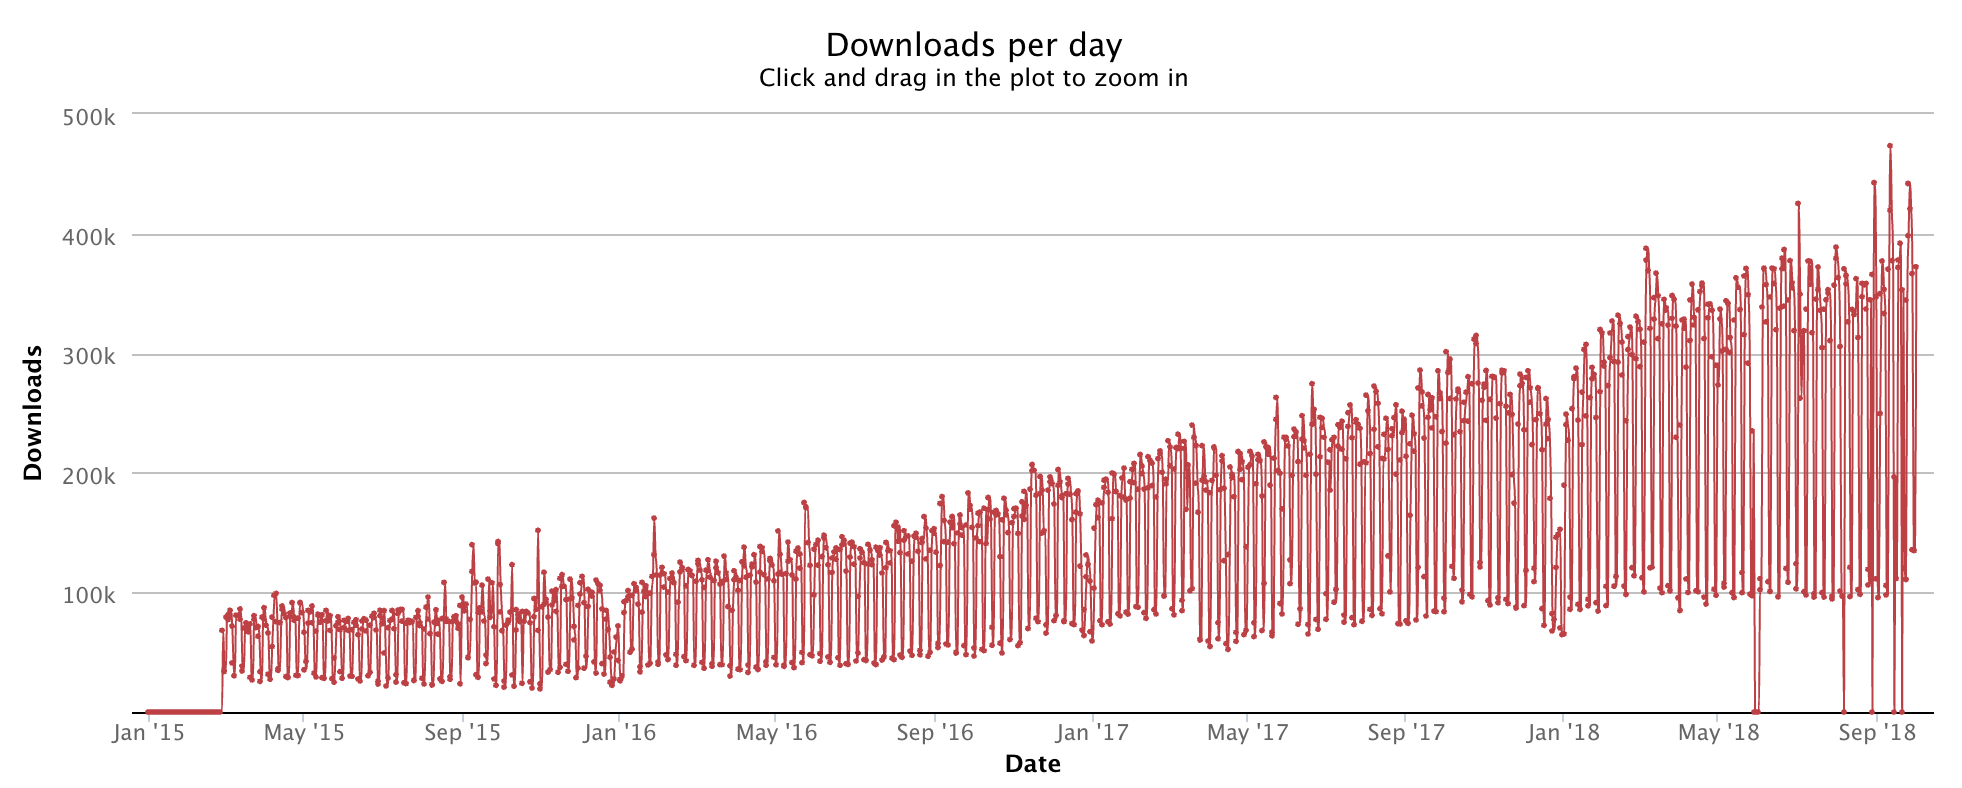
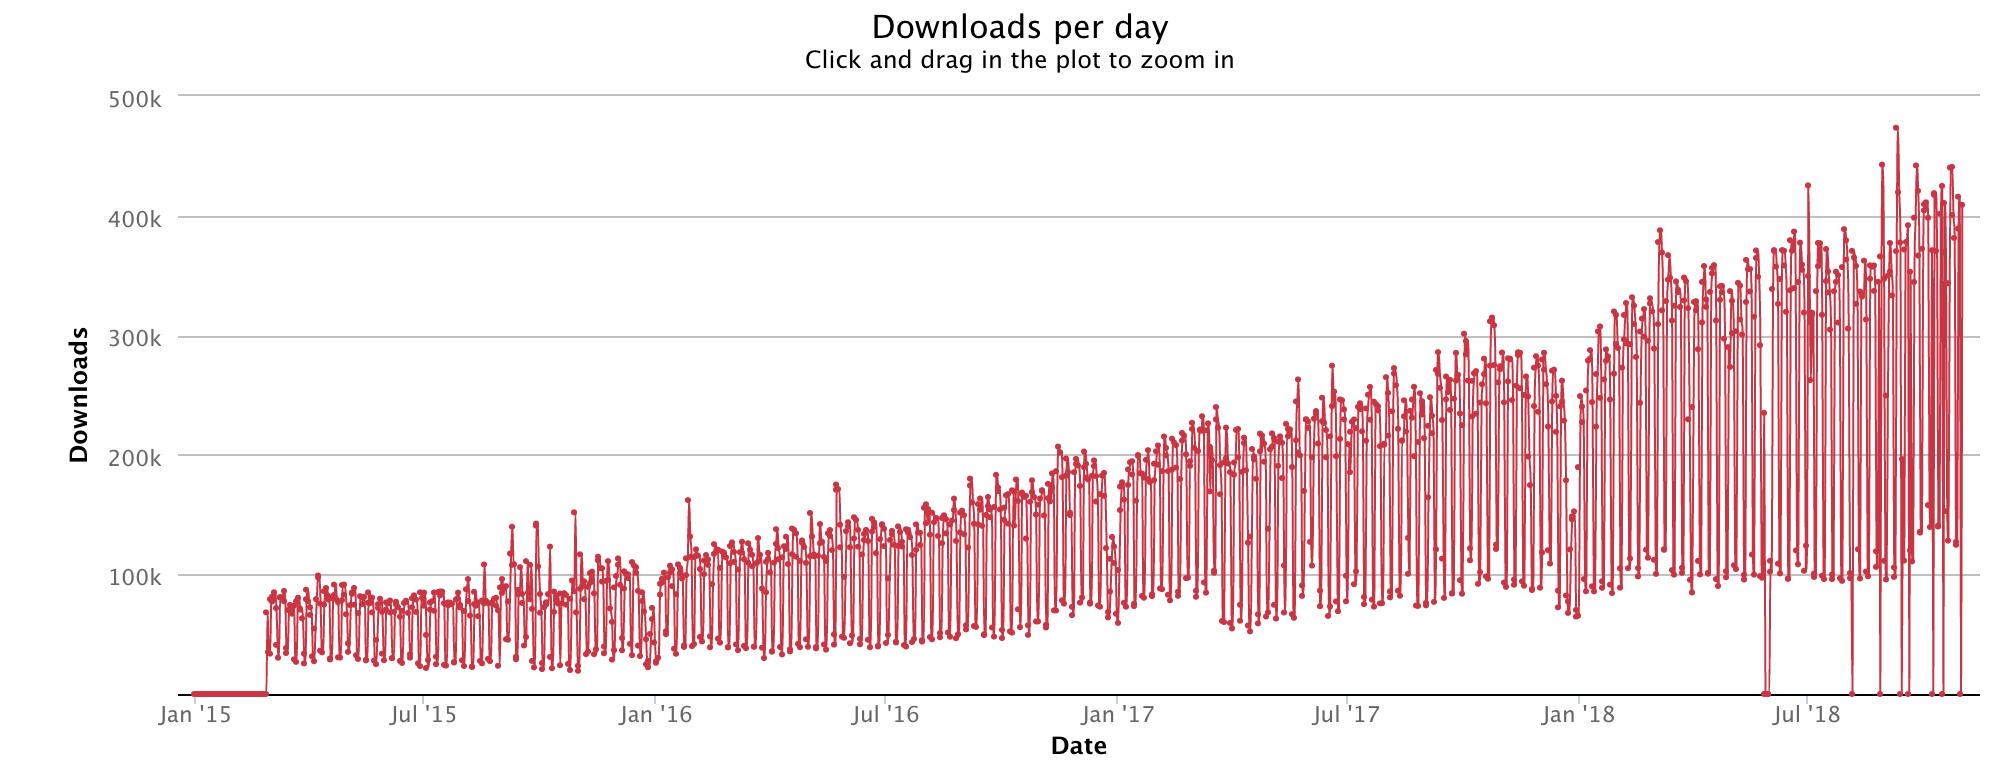
update download stats for november

Changed region(s): [[0.0, 0.1851, 0.9949, 0.9871], [0.0311, 0.0, 0.9638, 0.1542]]

diff --git a/presentation/src/presentation.js b/presentation/src/presentation.js
@@ -183,33 +183,33 @@ const Presentation = () => (
     <Slide>
       <Notes>Charts are from January 1st 2015 to October 1st 2018</Notes>
       <Heading>Mocha</Heading>
-      <Link href="https://npm-stat.com/charts.html?package=mocha&from=2015-01-01&to=2018-10-01">
+      <Link href="https://npm-stat.com/charts.html?package=mocha&from=2015-01-01&to=2018-11-01">
         <Image src={mochaDownloadStatsImage} />
       </Link>
     </Slide>
     {/*
     <Slide>
       <Heading>Jasmine</Heading>
-      <Link href="https://npm-stat.com/charts.html?package=jasmine-core&from=2015-01-01&to=2018-10-01">
+      <Link href="https://npm-stat.com/charts.html?package=jasmine-core&from=2015-01-01&to=2018-11-01">
         <Image src={jasmineDownloadStatsImage} />
       </Link>
     </Slide>
     <Slide>
       <Heading>Tape</Heading>
-      <Link href="https://npm-stat.com/charts.html?package=tape&from=2015-01-01&to=2018-10-01">
+      <Link href="https://npm-stat.com/charts.html?package=tape&from=2015-01-01&to=2018-11-01">
         <Image src={tapeDownloadStatsImage} />
       </Link>
     </Slide>
     <Slide>
       <Heading>Ava</Heading>
-      <Link href="https://npm-stat.com/charts.html?package=ava&from=2015-01-01&to=2018-10-01">
+      <Link href="https://npm-stat.com/charts.html?package=ava&from=2015-01-01&to=2018-11-01">
         <Image src={avaDownloadStatsImage} />
       </Link>
     </Slide>
     */}
     <Slide>
       <Heading>Jest</Heading>
-      <Link href="https://npm-stat.com/charts.html?package=jest&from=2015-01-01&to=2018-10-01">
+      <Link href="https://npm-stat.com/charts.html?package=jest&from=2015-01-01&to=2018-11-01">
         <Image src={jestDownloadStatsImage} />
       </Link>
     </Slide>
